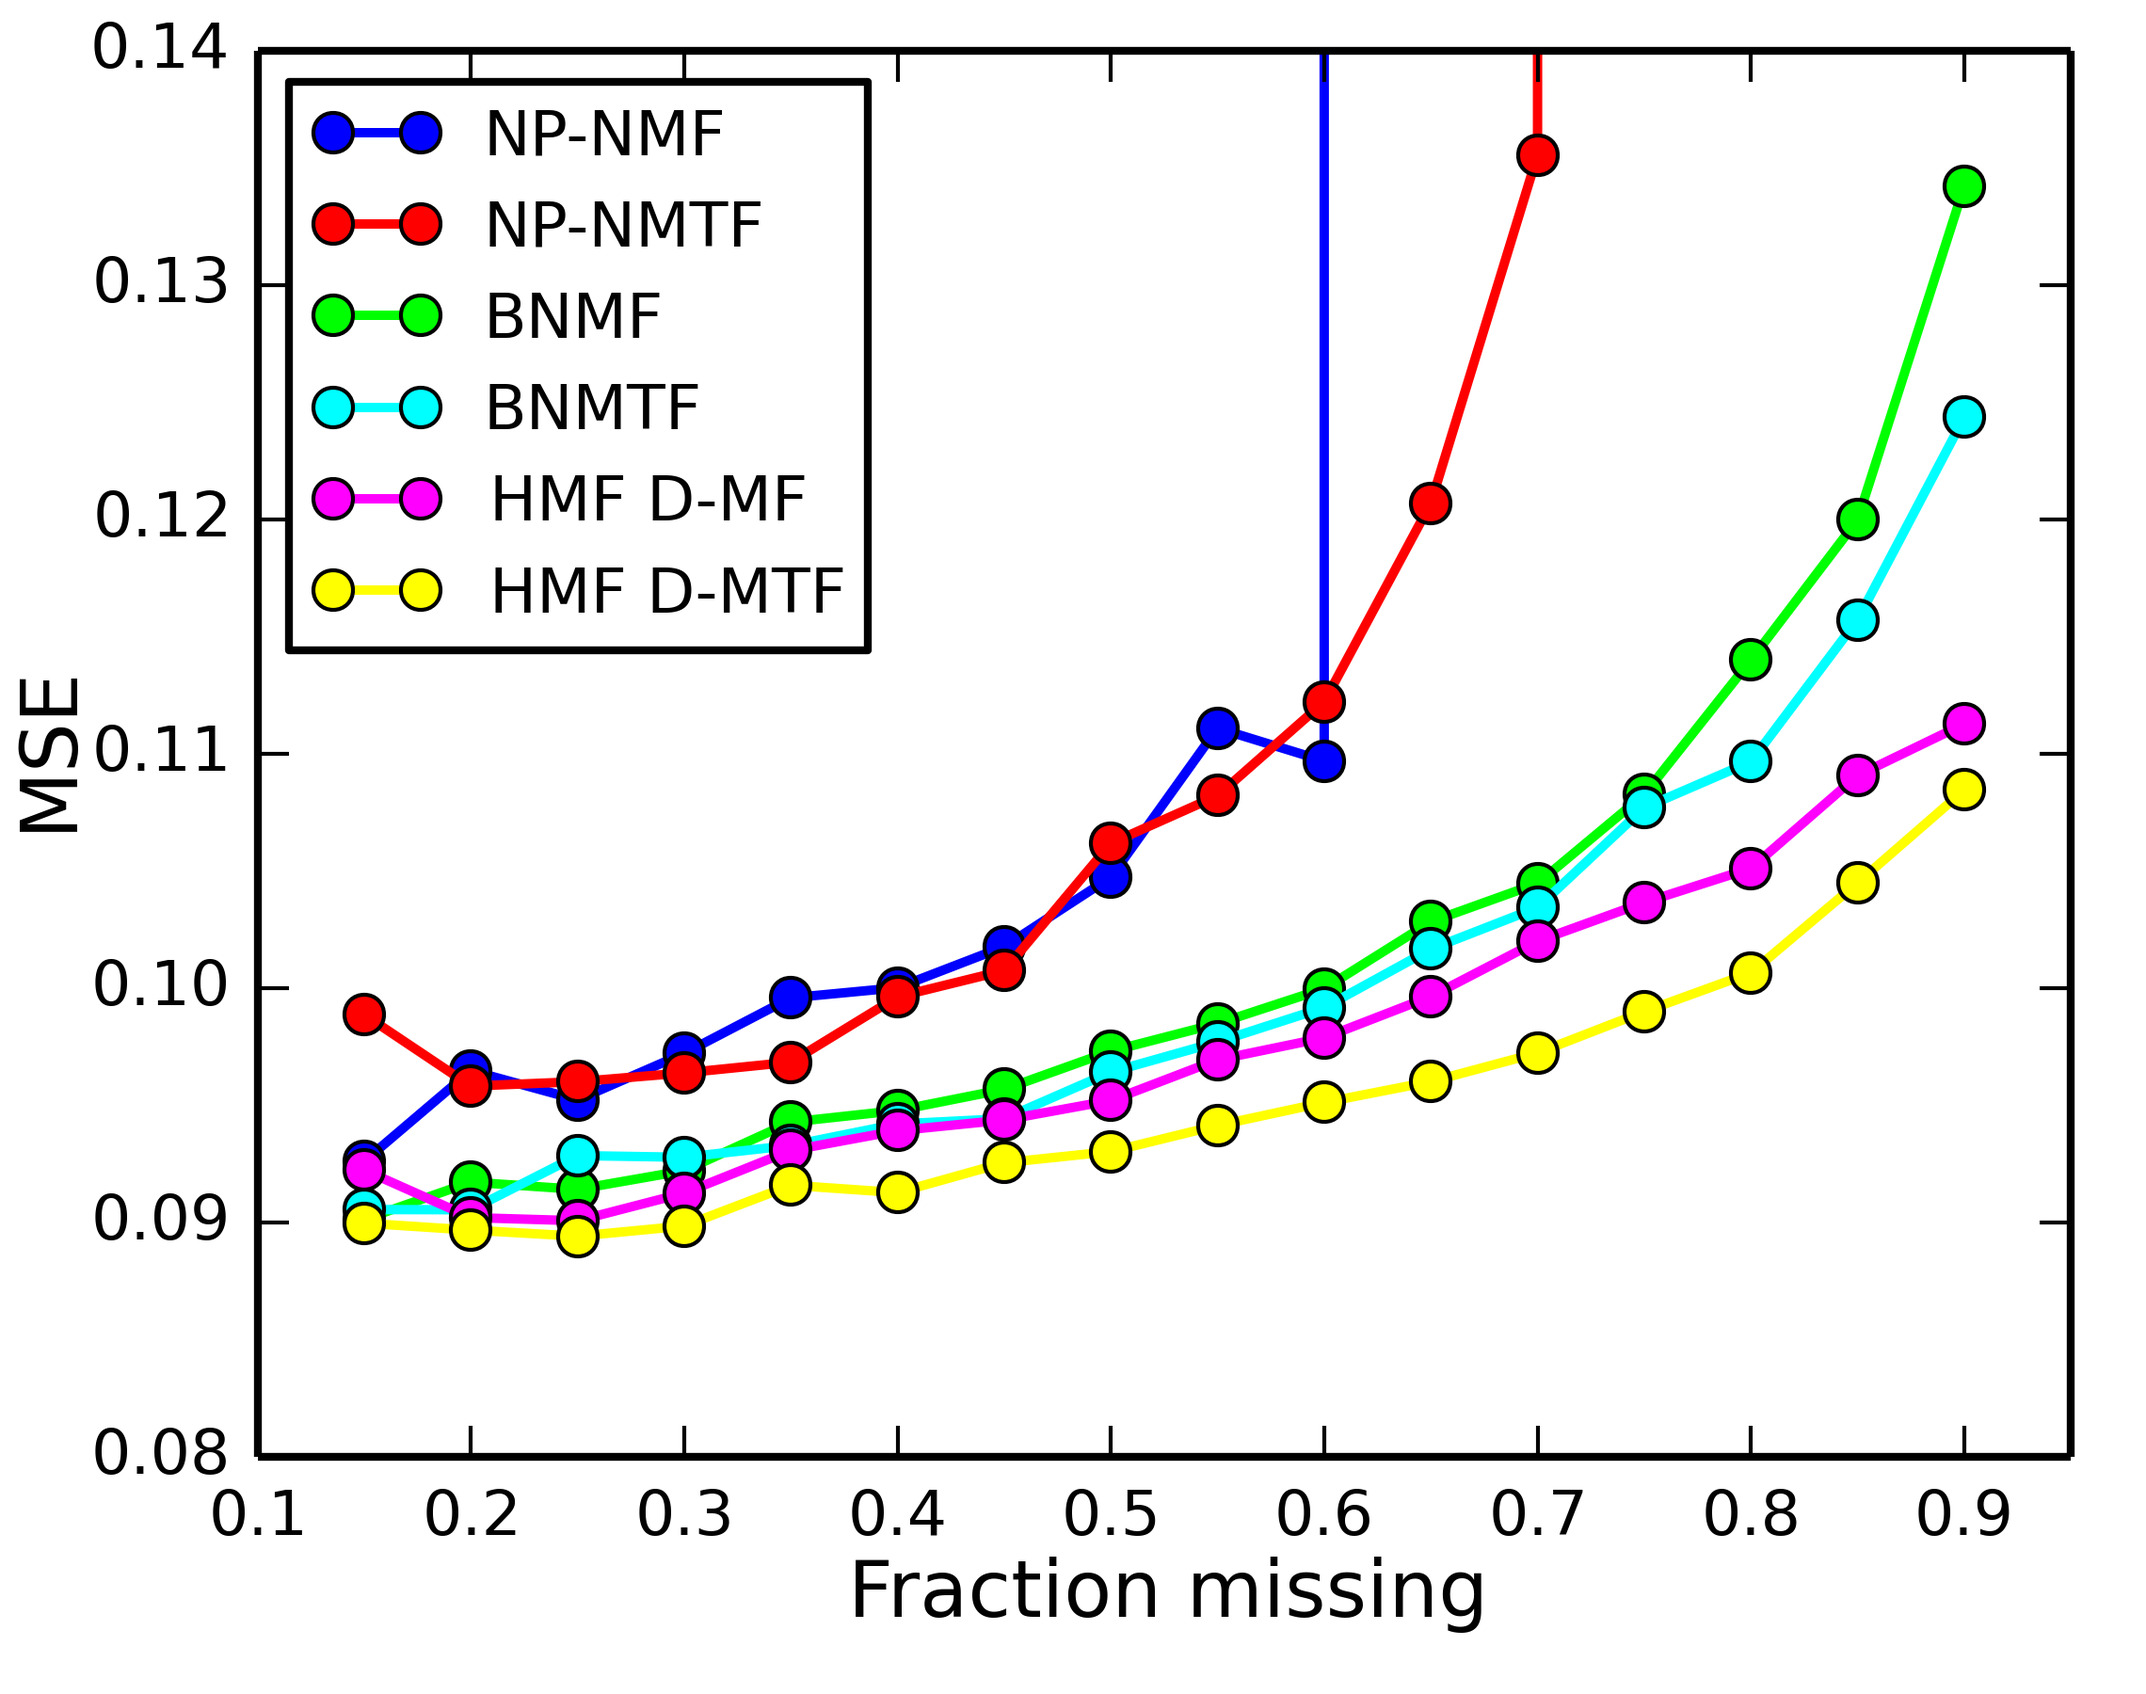
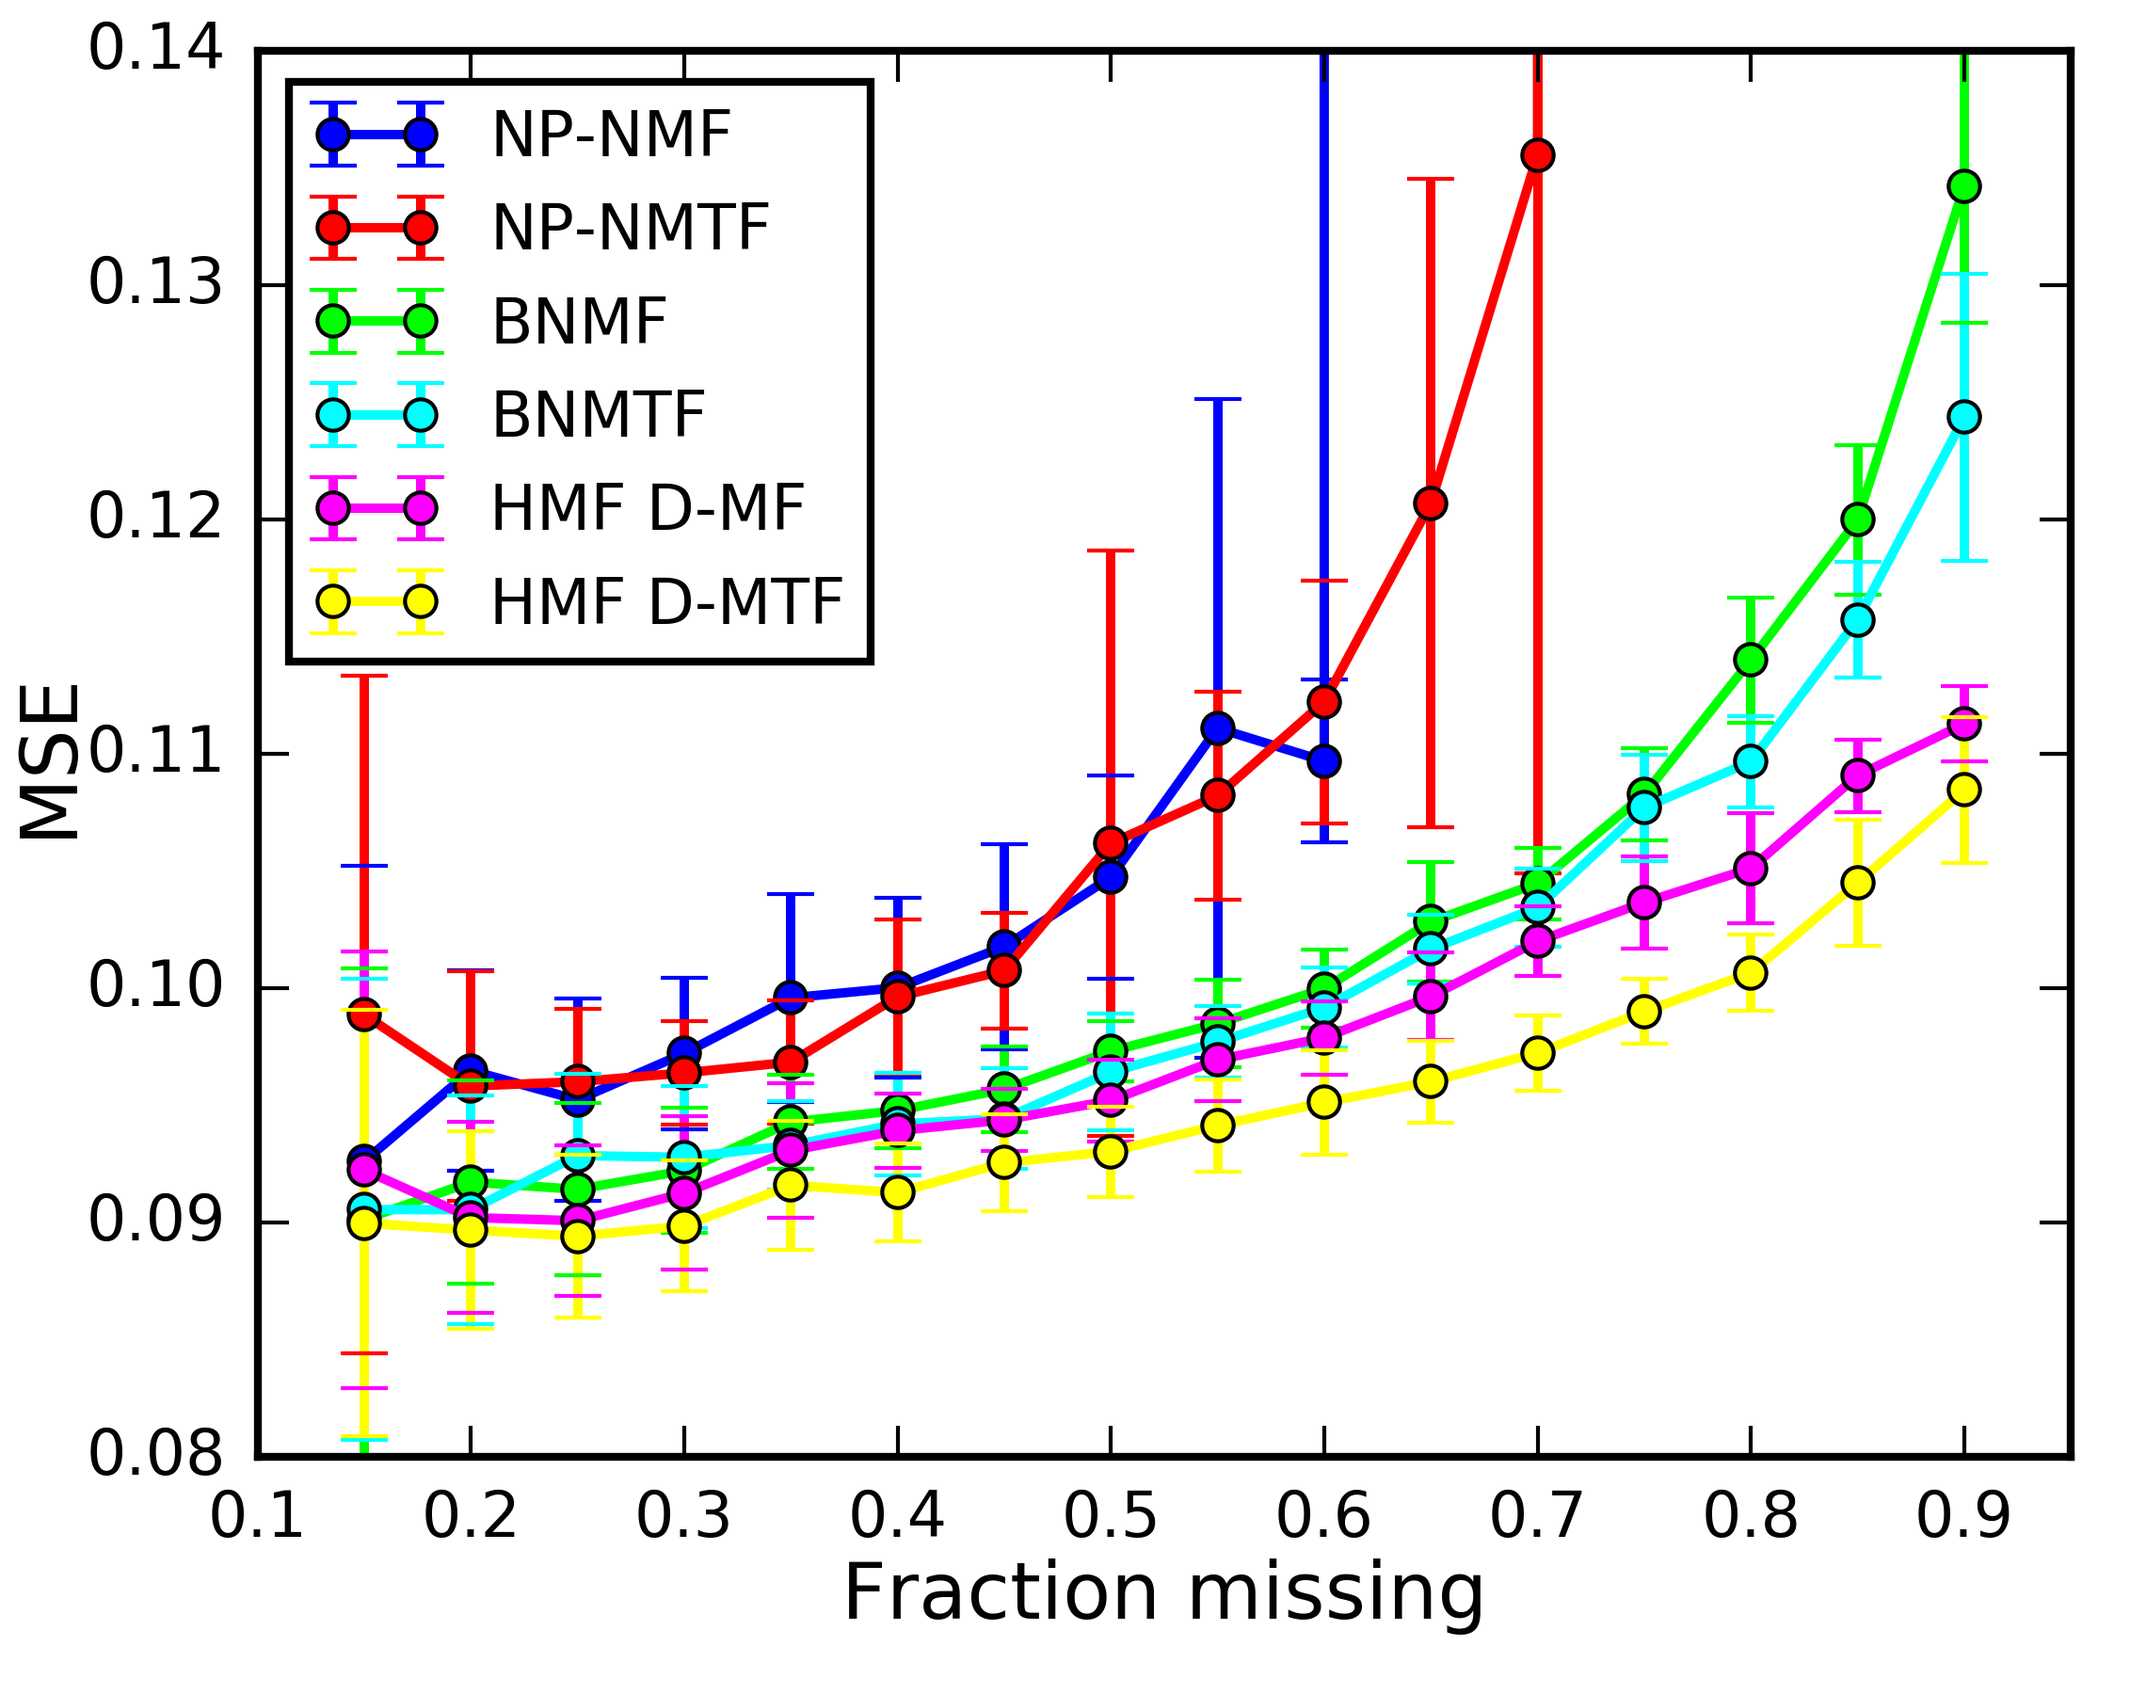
Updating readme.

diff --git a/drug_sensitivity/varying_sparsity/plot_varying_missing_gdsc.py b/drug_sensitivity/varying_sparsity/plot_varying_missing_gdsc.py
@@ -52,7 +52,7 @@ avr_performances = [
 ]
 colours = ['#0000ff','#ff0000','#00ff00','#00ffff','#ff00ff','#ffff00']
 
-# Also compute the median values
+# Also compute the median values, and stds
 def compute_medians(all_performances):
     medians = {}
     for metric in ['MSE','R^2','Rp']:
@@ -61,13 +61,29 @@ def compute_medians(all_performances):
             medians[metric].append(numpy.median(performances))
     return medians
     
+def compute_stds(all_performances):
+    stds = {}
+    for metric in ['MSE','R^2','Rp']:
+        stds[metric] = []
+        for performances in all_performances[metric]:
+            stds[metric].append(numpy.std(performances))
+    return stds
+    
 median_performances = [
     compute_medians(np_nmf_all),
     compute_medians(np_nmtf_all),
     compute_medians(bnmf_all),
     compute_medians(bnmtf_all),
     compute_medians(hmf_mf_all),
-    compute_medians(hmf_mtf_all)
+    compute_medians(hmf_mtf_all),
+]
+std_performances = [
+    compute_stds(np_nmf_all),
+    compute_stds(np_nmtf_all),
+    compute_stds(bnmf_all),
+    compute_stds(bnmtf_all),
+    compute_stds(hmf_mf_all),
+    compute_stds(hmf_mtf_all),
 ]
 
 # What to plot - averages or medians
@@ -83,10 +99,11 @@ for metric in metrics:
     plt.xticks(fontsize=8) #fontsize=6
     
     x = fractions_unknown
-    for method,performance,colour in zip(methods,values_to_plot,colours):
+    for method, performance, std, colour in zip(methods, values_to_plot, std_performances, colours):
         y = performance[metric]
-        #plt.plot(x,y,label=method)
-        plt.plot(x,y,linestyle='-', linewidth=1.2, marker='o', label=method, c=colour, markersize=5) #linewidth=0.5, markersize=2)
+        e = std[metric]
+        e = [v if v <= MSE_max else 0 for v in e] # If a performance is > MSE_max, have 0 std
+        plt.errorbar(x, y, e, linestyle='-', linewidth=1.2, marker='o', label=method, c=colour, markersize=4) #linewidth=0.5, markersize=2)
      
     plt.xlim(fraction_min,fraction_max)
     plt.ylim(MSE_min,MSE_max)

diff --git a/drug_sensitivity/varying_sparsity/plot_varying_missing_ctrp.py b/drug_sensitivity/varying_sparsity/plot_varying_missing_ctrp.py
@@ -51,7 +51,7 @@ avr_performances = [
 ]
 colours = ['#0000ff','#ff0000','#00ff00','#00ffff','#ff00ff','#ffff00']
 
-# Also compute the median values
+# Also compute the median values, and stds
 def compute_medians(all_performances):
     medians = {}
     for metric in ['MSE','R^2','Rp']:
@@ -60,6 +60,14 @@ def compute_medians(all_performances):
             medians[metric].append(numpy.median(performances))
     return medians
     
+def compute_stds(all_performances):
+    stds = {}
+    for metric in ['MSE','R^2','Rp']:
+        stds[metric] = []
+        for performances in all_performances[metric]:
+            stds[metric].append(numpy.std(performances))
+    return stds
+    
 median_performances = [
     compute_medians(np_nmf_all),
     compute_medians(np_nmtf_all),
@@ -67,6 +75,14 @@ median_performances = [
     compute_medians(bnmtf_all),
     compute_medians(hmf_mf_all),
     compute_medians(hmf_mtf_all)
+]
+std_performances = [
+    compute_stds(np_nmf_all),
+    compute_stds(np_nmtf_all),
+    compute_stds(bnmf_all),
+    compute_stds(bnmtf_all),
+    compute_stds(hmf_mf_all),
+    compute_stds(hmf_mtf_all),
 ]
 
 # What to plot - averages or medians
@@ -82,10 +98,11 @@ for metric in metrics:
     plt.xticks(fontsize=8) #fontsize=6
     
     x = fractions_unknown
-    for method,performance,colour in zip(methods,values_to_plot,colours):
+    for method, performance, std, colour in zip(methods, values_to_plot, std_performances, colours):
         y = performance[metric]
-        #plt.plot(x,y,label=method)
-        plt.plot(x,y,linestyle='-', linewidth=1.2, marker='o', label=method, c=colour, markersize=5) #linewidth=0.5, markersize=2)
+        e = std[metric]
+        e = [v if v <= MSE_max else 0 for v in e] # If a performance is > MSE_max, have 0 std
+        plt.errorbar(x, y, e, linestyle='-', linewidth=1.2, marker='o', label=method, c=colour, markersize=4) #linewidth=0.5, markersize=2)
      
     plt.xlim(fraction_min,fraction_max)
     plt.ylim(MSE_min,MSE_max)

diff --git a/README.md b/README.md
@@ -1,5 +1,12 @@
 # Bayesian hybrid matrix factorisation for data integration
-## Python implementation of the Hybrid Matrix Factorisation model.
+
+To appear in: 20th International Conference on Artificial Intelligence and Statistics (AISTATS 2017).
+
+Authors: **Thomas Brouwer**, **Pietro Lio'**.
+
+This project contains an implementation of the Bayesian hybrid matrix factorisation model presented in the paper **Bayesian hybrid matrix factorisation for data integration**. We furthermore provide all datasets used (including the preprocessing scripts), and code for experiments.
+
+The folder structure is outlined below, giving details of where to find the code, data, and experiments. If you have any comments, please feel free to contact me (tab43 @ cam.ac.uk).
 
 ### Folder structure
 
